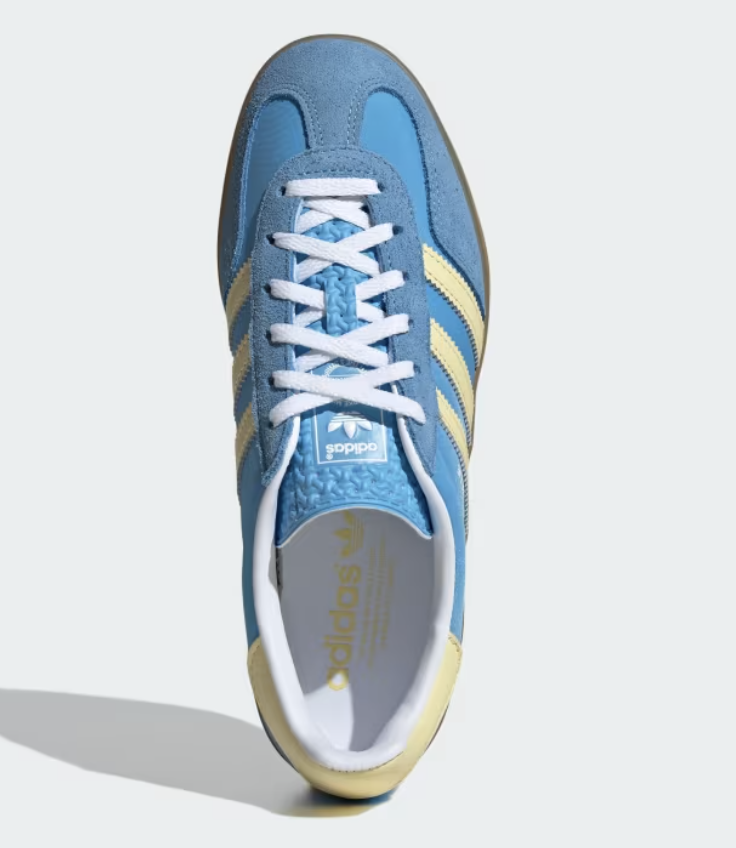
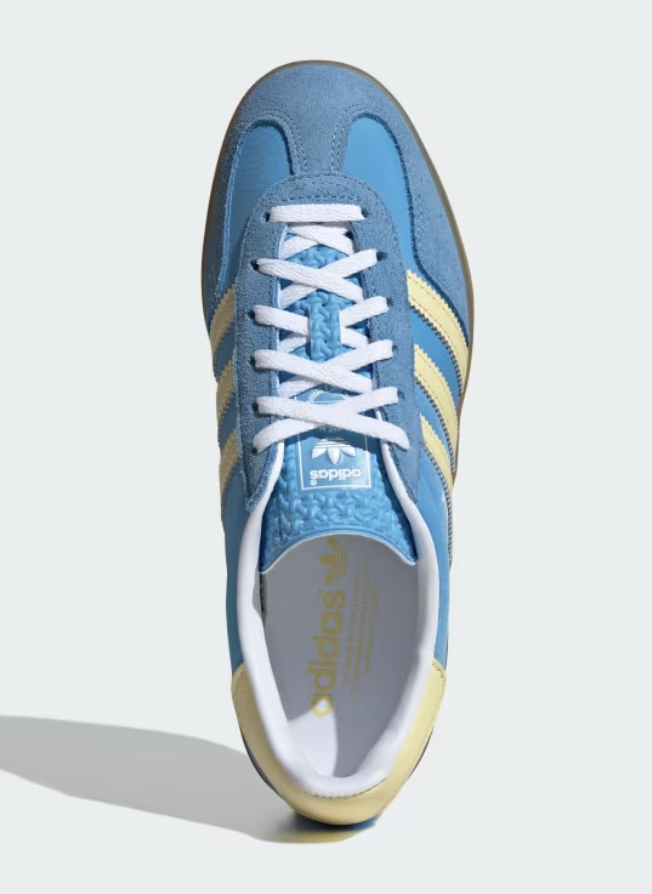
update choose color function

Changed region(s): [[0.0, 0.0307, 0.7362, 0.9811]]

diff --git a/src/pages/ProductInfo.jsx b/src/pages/ProductInfo.jsx
@@ -1,8 +1,42 @@
-import React from "react";
 import Navbar from "../components/Navbar";
 import Footer from "../components/Footer";
+import { useState } from "react";
+import { FontAwesomeIcon } from "@fortawesome/react-fontawesome";
+import {
+  faStar,
+  faChevronUp,
+  faChevronDown,
+} from "@fortawesome/free-solid-svg-icons";
 
 const ProductInfo = () => {
+  const [isDetailOpen, setIsDetailOpen] = useState(false);
+  const [isShippingOpen, setIsShippingOpen] = useState(false);
+  const [isReviewOpen, setIsReviewOpen] = useState(false);
+  const [selectedColor, setSelectedColor] = useState("blue");
+
+  const toggleDetail = () => {
+    setIsDetailOpen(!isDetailOpen);
+  };
+
+  const toggleShipping = () => {
+    setIsShippingOpen(!isShippingOpen);
+  };
+
+  const toggleReview = () => {
+    setIsReviewOpen(!isReviewOpen);
+  };
+
+  const shoes = {
+    blue: {
+      colorName: "Semi Blue Burst",
+      imageUrl: "/images/brand/adidas2.png",
+    },
+    yellow: {
+      colorName: "Almost Yellow ",
+      imageUrl: "/images/brand/adidas6.png",
+    },
+  };
+
   return (
     <div>
       <Navbar />
@@ -10,15 +44,15 @@ const ProductInfo = () => {
         <div className="md:w-2/3">
           <div
             id="productImages"
-            className="hidden md:grid grid-cols-2 gap-0.5 md:pt-28 pb-28"
+            className="hidden md:grid grid-cols-2 gap-0.5 md:pt-28 mb-28"
           >
-            <img src="/images/brand/adidas2.png" alt="Adidas Image 1" />
-            <img src="/images/brand/adidas2.png" alt="Adidas Image 2" />
-            <img src="/images/brand/adidas2.png" alt="Adidas Image 3" />
-            <img src="/images/brand/adidas2.png" alt="Adidas Image 4" />
+            <img src={shoes[selectedColor].imageUrl} alt="Adidas Image 1" />
+            <img src={shoes[selectedColor].imageUrl} alt="Adidas Image 2" />
+            <img src={shoes[selectedColor].imageUrl} alt="Adidas Image 3" />
+            <img src={shoes[selectedColor].imageUrl} alt="Adidas Image 4" />
           </div>
         </div>
-        <div className="pt-28 ">
+        <div className="pt-28 md:w-1/3">
           <div className="px-8 pb-8 md:pb-0">
             <h1 className="text-4xl">Adidas Gazelle</h1>
             <p className="text-xl mt-2">รองเท้าผู้หญิง</p>
@@ -26,7 +60,7 @@ const ProductInfo = () => {
           </div>
           <div className="w-full md:hidden">
             <img
-              src="/images/brand/adidas1.png"
+              src={shoes[selectedColor].imageUrl}
               alt="Adidas Gazelle"
               className="mx-auto"
             />
@@ -34,62 +68,73 @@ const ProductInfo = () => {
           <div className="px-8 md:mt-1">
             <p className="text-xl pt-8 md:text-xl md:font-bold">เลือกสี</p>
             <div className="flex gap-1 pb-2 pt-4">
-              <img
-                src="/images/brand/adidas1.png"
-                alt="Semi Spark"
-                className="w-28 h-22"
-              />
-              <img
-                src="/images/brand/adidas5.png"
-                alt="Wonder Clay"
-                className="w-28 h-22"
-              />
+              <button
+                onClick={() => setSelectedColor("blue")}
+                className={`p-1 border-2 rounded ${
+                  selectedColor === "blue"
+                    ? "border-black"
+                    : "border-transparent"
+                }`}
+              >
+                <img
+                  src="/images/brand/adidas1.png"
+                  alt="Semi Blue Burst"
+                  className="w-28 h-22"
+                />
+              </button>
+              <button
+                onClick={() => setSelectedColor("yellow")}
+                className={`p-1 border-2 rounded ${
+                  selectedColor === "yellow"
+                    ? "border-black"
+                    : "border-transparent"
+                }`}
+              >
+                <img
+                  src="/images/brand/adidas5.png"
+                  alt="Almost Yellow"
+                  className="w-28 h-22"
+                />
+              </button>
             </div>
-            <p>Semi Blue Burst / Almost Yellow / Cloud White</p>
+            <p>{shoes[selectedColor].colorName}</p>
             <div className="md:flex justify-between pt-8">
               <p className="text-xl pb-2 md:text-xl md:font-bold">เลือกไซส์</p>
-              <p className="hidden md:block md:text-sm md:text-gray-600 md:underline underline-offset-2">
+              <a
+                href="https://www.nike.com/th/size-fit/womens-footwear"
+                className="hidden md:block md:text-sm md:text-gray-600 md:underline underline-offset-2"
+              >
                 คำแนะนำในการเลือกไซส์
-              </p>
+              </a>
             </div>
             <div className="grid grid-cols-3 gap-2 pt-2 pb-6">
-              <button className="border rounded-xl py-2 hover:bg-gray-400">
-                US 5
-              </button>
-              <button className="border rounded-xl py-2 hover:bg-gray-400">
-                US 5.5
-              </button>
-              <button className="border rounded-xl py-2 hover:bg-gray-400">
-                US 6
-              </button>
-              <button className="border rounded-xl py-2 hover:bg-gray-400">
-                US 6.5
-              </button>
-              <button className="border rounded-xl py-2 hover:bg-gray-400">
-                US 7
-              </button>
-              <button className="border rounded-xl py-2 hover:bg-gray-400">
-                US 7.5
-              </button>
-              <button className="border rounded-xl py-2 hover:bg-gray-400">
-                US 8
-              </button>
-              <button className="border rounded-xl py-2 hover:bg-gray-400">
-                US 8.5
-              </button>
-              <button className="border rounded-xl py-2 hover:bg-gray-400">
-                US 9
-              </button>
-              <button className="border rounded-xl py-2 hover:bg-gray-400">
-                US 9.5
-              </button>
-              <button className="border rounded-xl py-2 hover:bg-gray-400">
-                US 10
-              </button>
+              {[
+                "US 5",
+                "US 5.5",
+                "US 6",
+                "US 6.5",
+                "US 7",
+                "US 7.5",
+                "US 8",
+                "US 8.5",
+                "US 9",
+                "US 9.5",
+                "US 10",
+              ].map((size) => (
+                <button
+                  key={size}
+                  className="border rounded-xl py-2 hover:bg-gray-400"
+                >
+                  {size}
+                </button>
+              ))}
             </div>
-            <p className="text-sm underline mt-4 text-gray-500 pb-4 md:hidden">
+            <a
+              href="https://www.nike.com/th/size-fit/womens-footwear"
+              className="text-sm underline mt-4 text-gray-500 pb-4 md:hidden"
+            >
               คำแนะนำในการเลือกไซส์
-            </p>
+            </a>
             <div className="mt-4 mb-6">
               <button className="btn px-4 py-2 bg-black text-white rounded-xl w-full font-bold hover:bg-gray-400 mb-2">
                 เพิ่มไปยังตะกร้า
@@ -101,20 +146,157 @@ const ProductInfo = () => {
             <div className="pt-8 pb-12 ">
               <div>
                 <hr />
-                <h2 className="underline underline-offset-2 text-xl py-6">
+                <h2
+                  className="flex justify-between underline underline-offset-2 text-xl py-6"
+                  onClick={toggleDetail}
+                >
                   รายละเอียดสินค้า
+                  <FontAwesomeIcon
+                    icon={isDetailOpen ? faChevronUp : faChevronDown}
+                    className="ml-2 "
+                  />
                 </h2>
+                {isDetailOpen && (
+                  <div>
+                    <section className="mb-8">
+                      <h2 className="text-xl font-semibold mb-4">
+                        คุณสมบัติทั่วไป
+                      </h2>
+                      <ul className="list-disc list-inside space-y-2">
+                        <li>
+                          <strong>วัสดุ:</strong> ส่วนบนทำจากหนังนิ่ม (suede)
+                          หรือหนัง (leather),
+                          ส่วนลิ้นรองเท้าทำจากหนังหรือวัสดุสังเคราะห์ที่ทนทาน,
+                          พื้นรองเท้าทำจากยาง (rubber)
+                        </li>
+                        <li>
+                          <strong>การออกแบบ:</strong> โลโก้สามแถบ
+                          (Three-Stripes) อยู่ด้านข้างของรองเท้า, โลโก้ Trefoil
+                          อยู่ที่ลิ้นรองเท้าและบางรุ่นอาจมีที่ส่วนหลัง,
+                          มีให้เลือกหลายสี
+                        </li>
+                        <li>
+                          <strong>การรองรับ:</strong>
+                          พื้นรองเท้าด้านในบุด้วยวัสดุที่นุ่มและมีการรองรับที่ดี,
+                          พื้นรองเท้าชั้นกลางทำจากโฟม EVA
+                          หรือวัสดุที่มีการรองรับแรงกระแทกดี
+                        </li>
+                        <li>
+                          <strong>ประโยชน์:</strong>
+                          เหมาะสำหรับการใช้งานทั่วไปและการออกกำลังกายเบา ๆ,
+                          สวมใส่สบายตลอดวัน,
+                          การออกแบบที่คลาสสิกและเรียบง่ายทำให้สามารถใส่ได้ในหลายโอกาส
+                        </li>
+                      </ul>
+                    </section>
+                    <section className="mb-8">
+                      <h2 className="text-xl font-semibold mb-4">
+                        การดูแลรักษา
+                      </h2>
+                      <ul className="list-disc list-inside space-y-2">
+                        <li>
+                          การทำความสะอาด:
+                          ควรใช้แปรงขนนุ่มและน้ำยาทำความสะอาดสำหรับรองเท้า suede
+                          หรือหนัง
+                        </li>
+                        <li>
+                          การเก็บรักษา:
+                          เก็บในที่แห้งและหลีกเลี่ยงแสงแดดโดยตรงเพื่อป้องกันการซีดจางของสี
+                        </li>
+                      </ul>
+                    </section>
+                  </div>
+                )}
               </div>
               <div>
                 <hr />
-                <h2 className="underline underline-offset-2 text-xl py-6">
+                <h2
+                  className="flex justify-between underline underline-offset-2 text-xl py-6"
+                  onClick={toggleShipping}
+                >
                   การจัดส่งและการคืนสินค้า
+                  <FontAwesomeIcon
+                    icon={isShippingOpen ? faChevronUp : faChevronDown}
+                    className="ml-2 "
+                  />
                 </h2>
+                {isShippingOpen && (
+                  <div>
+                    <p className="mb-4">
+                      จัดส่งสินค้าฟรีสำหรับคำสั่งซื้อที่มีมูลค่า 5500 บาท ขึ้นไป
+                    </p>
+
+                    <div className="mb-6">
+                      <h2 className="text-xl font-semibold mb-2">
+                        กรุงเทพมหานคร:
+                      </h2>
+                      <ul className="list-disc pl-5">
+                        <li>ส่งแบบมาตรฐาน ถึงที่หมายใน 3-6 วันทำการ</li>
+                        <li>ส่งแบบด่วน ถึงที่หมายใน 2-4 วันทำการ</li>
+                      </ul>
+                    </div>
+
+                    <div className="mb-6">
+                      <h2 className="text-xl font-semibold mb-2">
+                        สมุทรปราการ:
+                      </h2>
+                      <ul className="list-disc pl-5">
+                        <li>ส่งแบบมาตรฐาน ถึงที่หมายใน 4-7 วันทำการ</li>
+                        <li>ส่งแบบด่วน ถึงที่หมายใน 3-5 วันทำการ</li>
+                      </ul>
+                    </div>
+
+                    <div className="mb-6">
+                      <h2 className="text-xl font-semibold mb-2">
+                        เมืองนนทบุรี:
+                      </h2>
+                      <ul className="list-disc pl-5">
+                        <li>ส่งแบบมาตรฐาน ถึงที่หมายใน 4-7 วันทำการ</li>
+                        <li>ส่งแบบด่วน ถึงที่หมายใน 3-5 วันทำการ</li>
+                      </ul>
+                    </div>
+
+                    <div className="mb-6">
+                      <h2 className="text-xl font-semibold mb-2">
+                        จังหวัดอื่น:
+                      </h2>
+                      <ul className="list-disc pl-5">
+                        <li>ส่งแบบมาตรฐาน ถึงที่หมายใน 5-8 วันทำการ</li>
+                        <li>ส่งแบบด่วน ถึงที่หมายใน 3-5 วันทำการ</li>
+                      </ul>
+                    </div>
+
+                    <p className="mb-4">
+                      คำสั่งซื้อจะดำเนินการและส่งมอบในวันจันทร์-ศุกร์
+                      เว้นวันหยุดนักขัตฤกษ์ ยกเว้นวันหยุดเทศกาลสำหรับสมาชิก Nike
+                      ฟรีค่าขนส่งในกรณีคืนสินค้า.
+                      <a href="#" className="text-blue-500 underline">
+                        ข้อยกเว้นของนโยบายการคืนสินค้า
+                      </a>
+                    </p>
+                  </div>
+                )}
               </div>
               <div>
                 <hr />
-                <h2 className="underline underline-offset-2 text-xl py-6">
+                <h2
+                  className="flex justify-between underline underline-offset-2 text-xl py-6"
+                  onClick={toggleReview}
+                >
                   รีวิว
+                  <div className="flex justify-between">
+                    <div className="pr-2">
+                      <FontAwesomeIcon icon={faStar} />
+                      <FontAwesomeIcon icon={faStar} />
+                      <FontAwesomeIcon icon={faStar} />
+                      <FontAwesomeIcon icon={faStar} />
+                      <FontAwesomeIcon icon={faStar} />
+                    </div>
+                    <FontAwesomeIcon
+                      icon={isReviewOpen ? faChevronUp : faChevronDown}
+                      className="ml-2 "
+                    />
+                  </div>
                 </h2>
                 <hr />
               </div>
